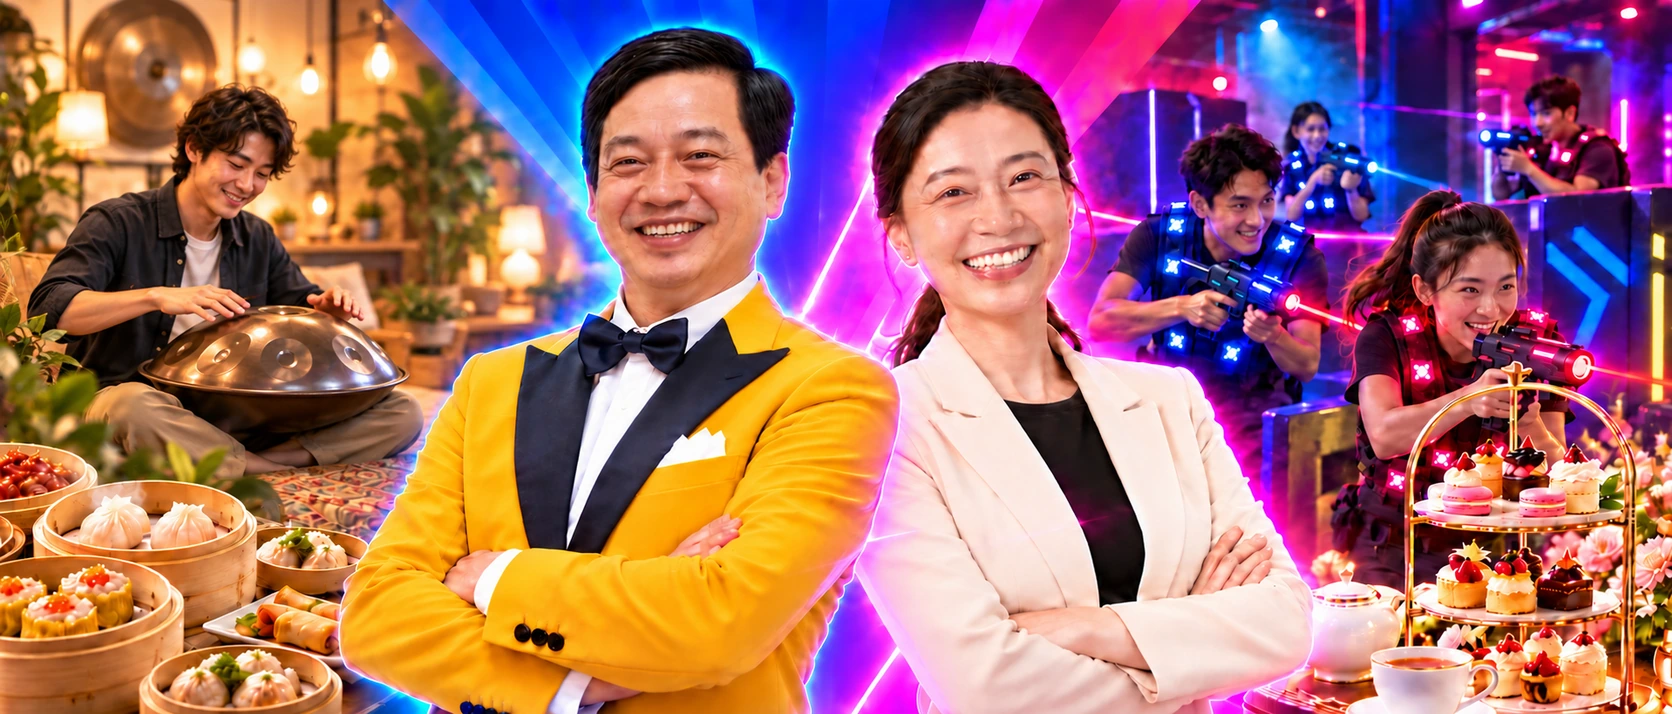
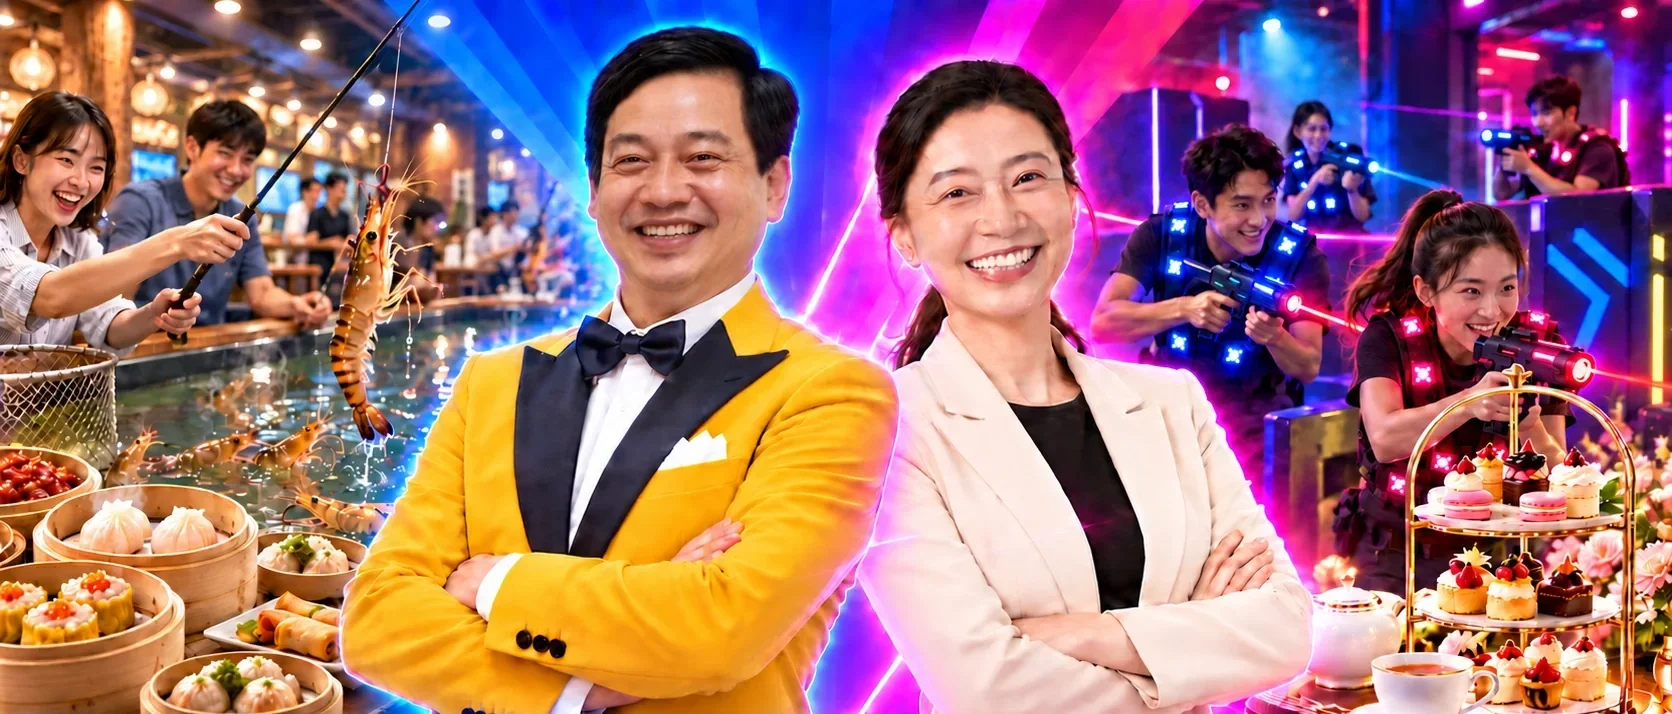
revert: plan A back to shrimp fishing (images and copy only)
Restores the shrimp-fishing hero poster and A print from before the
handpan change, keeping everything built since: the hero's soft oval
edge (regenerated with the fishing scene's faces protected), the even
print border, the second hand and the swap print. The male host keeps
the clearer eyes from the handpan poster, transplanted onto the fishing
poster. Copy returns to 釣趣派 / 悠閒 / FISHING / 釣蝦 wording.

diff --git a/components/trip-showdown.tsx b/components/trip-showdown.tsx
@@ -47,7 +47,7 @@ import {
 const planLine = (plan?: TripPlan) => plan?.title.replaceAll("\n", "");
 
 const PLAN_ART = [
-  { photo: OPENING_IMAGES.photoA, feast: OPENING_IMAGES.feastA, word: "療癒" },
+  { photo: OPENING_IMAGES.photoA, feast: OPENING_IMAGES.feastA, word: "悠閒" },
   { photo: OPENING_IMAGES.photoB, feast: OPENING_IMAGES.feastB, word: "熱血" },
 ];
 
@@ -221,8 +221,8 @@ export default function TripShowdown() {
           onFinish={finishIntro}
           date={catalog.settings.eventDate.slice(5).replace("-", ".")}
           plans={[
-            plans[0]?.[1].shortName || "療癒派",
-            plans[1]?.[1].shortName || "熱血派",
+            plans[0]?.[1].shortName || "釣趣派",
+            plans[1]?.[1].shortName || "熱血對戰派",
           ]}
         />
       )}
@@ -234,11 +234,11 @@ export default function TripShowdown() {
         <header className="show-hero" data-ready={introReady && !intro}>
           <div className="hero-field" aria-hidden="true"><i className="hero-field-a" /><i className="hero-field-b" /></div>
           <div className="hero-stage">
-            <p className="hero-team hero-team-a"><small className="sd-micro">TEAM A</small><strong>{plans[0]?.[1].shortName || "療癒派"}</strong><span>{planLine(plans[0]?.[1]) || "手碟＋港點午餐"}</span></p>
+            <p className="hero-team hero-team-a"><small className="sd-micro">TEAM A</small><strong>{plans[0]?.[1].shortName || "釣趣派"}</strong><span>{planLine(plans[0]?.[1]) || "釣蝦＋港點午餐"}</span></p>
             <div className="hero-poster">
-              <img className="hero-poster-img" src={HERO_POSTER} width={2272} height={804} alt="兩位老闆對決：左邊是手碟與港點，右邊是雷射槍戰與飯店下午茶" fetchPriority="high" />
+              <img className="hero-poster-img" src={HERO_POSTER} width={2272} height={804} alt="兩位老闆對決：左邊釣蝦港點的釣趣派，右邊雷射槍戰下午茶的熱血對戰派" fetchPriority="high" />
             </div>
-            <p className="hero-team hero-team-b"><small className="sd-micro">TEAM B</small><strong>{plans[1]?.[1].shortName || "熱血派"}</strong><span>{planLine(plans[1]?.[1]) || "雷射槍戰＋飯店下午茶"}</span></p>
+            <p className="hero-team hero-team-b"><small className="sd-micro">TEAM B</small><strong>{plans[1]?.[1].shortName || "熱血對戰派"}</strong><span>{planLine(plans[1]?.[1]) || "雷射槍戰＋飯店下午茶"}</span></p>
           </div>
           <div className="hero-center">
             <ShowLogo className="hero-lockup" tag="" />
@@ -252,7 +252,7 @@ export default function TripShowdown() {
               <span>預計 {catalog.settings.expectedVoters} 人</span>
             </p>
             <p className="hero-copy">
-              <span className="hero-clause">到底是手碟療癒配港點聚餐吸引人，</span><span className="hero-clause">還是雷射團戰享用飯店 Buffet 令人嚮往？</span>
+              <span className="hero-clause">到底是釣蝦吃港點聚餐吸引人，</span><span className="hero-clause">還是雷射團戰享用飯店 Buffet 令人嚮往？</span>
               <span className="hero-copy-cta">看完行程，選一個你最想去的方案。</span>
             </p>
             <div className="hero-actions" ref={heroActionsRef}>
@@ -374,7 +374,7 @@ export default function TripShowdown() {
                       rows={3}
                       value={draft.note}
                       disabled={saving || !votingOpen}
-                      placeholder={draft.planId === "B" ? "例如：團體活動需留意的狀況，或餐點需求…" : "例如：第一次玩手碟需要協助，或有餐點需求…"}
+                      placeholder={draft.planId === "B" ? "例如：團體活動需留意的狀況，或餐點需求…" : "例如：釣蝦需要協助，或有餐點需求…"}
                       onChange={(event) => edit({ note: event.target.value })}
                     />
                     <span>{draft.note.length} / 1000</span>
@@ -501,8 +501,8 @@ export default function TripShowdown() {
             <p className="footer-kicker"><span>SEE YOU ON</span><b>{catalog.settings.eventDate.slice(5).replace("-", ".")}</b></p>
             <div className="footer-stage">
               <div className="footer-ribbons" aria-hidden="true">
-                <CautionTape tone="ink" className="tape-upper" words={[plans[0]?.[1].shortName || "療癒派", planLine(plans[0]?.[1]) || "手碟＋港點午餐", "TEAM A"]} />
-                <CautionTape reverse className="tape-lower" words={[plans[1]?.[1].shortName || "熱血派", planLine(plans[1]?.[1]) || "雷射槍戰＋飯店下午茶", "TEAM B"]} />
+                <CautionTape tone="ink" className="tape-upper" words={[plans[0]?.[1].shortName || "釣趣派", planLine(plans[0]?.[1]) || "釣蝦＋港點午餐", "TEAM A"]} />
+                <CautionTape reverse className="tape-lower" words={[plans[1]?.[1].shortName || "熱血對戰派", planLine(plans[1]?.[1]) || "雷射槍戰＋飯店下午茶", "TEAM B"]} />
               </div>
               <ShowLogo className="footer-lockup" />
             </div>

diff --git a/components/opening-animation.tsx b/components/opening-animation.tsx
@@ -281,12 +281,12 @@ export default function OpeningAnimation({onFinish, plans, date = "10.29"}: {onF
     </OpeningSplash>}
     <div ref={stageRef} className="film-stage" data-scene={step} data-playing={started} data-buffering={bufferedAt.current !== null} aria-hidden="true">
       <div className="prepaint">{Object.values(IMG).map(src => <Cut key={src} src={src} />)}</div>
-      {step === 1 && <Shot at={CUES[1]} className="shot-glyph glyph-white"><b>療</b></Shot>}
-      {step === 3 && <Shot at={CUES[3]} className="shot-glyph glyph-blue"><b>癒</b></Shot>}
+      {step === 1 && <Shot at={CUES[1]} className="shot-glyph glyph-white"><b>悠</b></Shot>}
+      {step === 3 && <Shot at={CUES[3]} className="shot-glyph glyph-blue"><b>閒</b></Shot>}
       {step === 4 && <Shot at={CUES[4]} className="shot-host host-a sd-field-blue">
         <Cut src={IMG.hostA} className="host sd-cutout" />
         <Glitch src={IMG.hostA} />
-        <div className="host-word"><strong>療<br />癒</strong><span className="sd-micro sd-vertical">HEALING</span></div>
+        <div className="host-word"><strong>悠<br />閒</strong><span className="sd-micro sd-vertical">LEISURE</span></div>
         <span className="host-team sd-micro">TEAM A — {plans[0]}</span>
         <Cross />
         <i className="x-wipe" />
@@ -303,7 +303,7 @@ export default function OpeningAnimation({onFinish, plans, date = "10.29"}: {onF
       {step === 7 && <Shot at={CUES[7]} className="shot-split split-play">
         <Split a={<Cut src={IMG.photoA} className="prop sd-cutout" />} b={<Cut src={IMG.photoSwap} className="prop sd-cutout" />}>
           <Cut src={IMG.handB} className="prop prop-hand sd-cutout" />
-          <span className="split-word word-top"><span className="split-word-mask"><span>HANDPAN</span></span></span>
+          <span className="split-word word-top"><span className="split-word-mask"><span>FISHING</span></span></span>
           <span className="split-word word-bottom"><span className="split-word-mask"><span>BATTLE</span></span></span>
         </Split>
       </Shot>}
